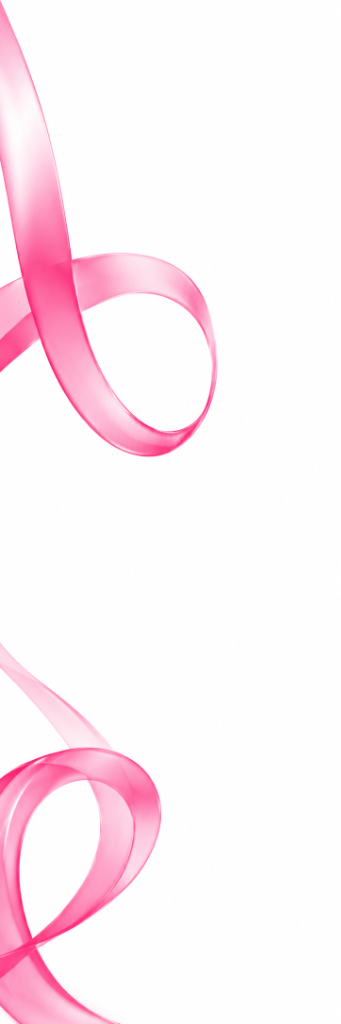
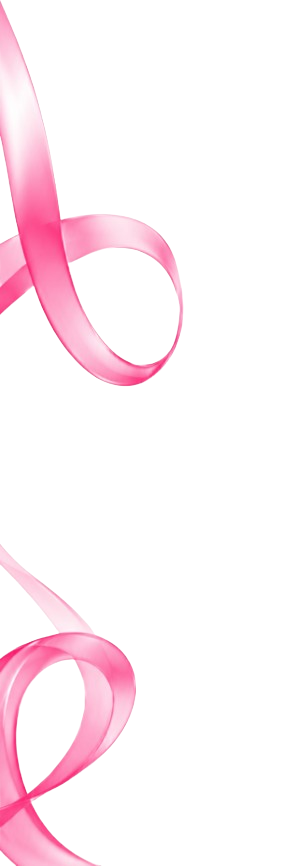
update

diff --git a/src/components/TopNavigation.css b/src/components/TopNavigation.css
@@ -3,15 +3,15 @@
   justify-content: space-between;
   align-items: center;
   padding: 1rem 4rem;
-  background: linear-gradient(135deg, rgba(255, 255, 255, 0.9) 0%, rgba(255, 255, 255, 0.7) 100%);
-  border-bottom: 1px solid rgba(255, 255, 255, 0.8);
-  box-shadow: 0 4px 20px rgba(0, 0, 0, 0.04), inset 0 -1px 0 rgba(255, 255, 255, 0.8);
+  background: rgba(253, 242, 244, 0.65); /* Translucent so content behind is visible */
+  border-bottom: 1px solid rgba(234, 81, 93, 0.18);
+  box-shadow: 0 8px 30px rgba(234, 81, 93, 0.08);
   margin-bottom: 2rem;
   position: sticky;
   top: 0;
-  z-index: 50;
-  backdrop-filter: blur(16px) saturate(180%);
-  -webkit-backdrop-filter: blur(16px) saturate(180%);
+  z-index: 999;
+  backdrop-filter: blur(24px) saturate(180%);
+  -webkit-backdrop-filter: blur(24px) saturate(180%);
 }
 
 .top-nav-left {
@@ -21,11 +21,17 @@
 }
 
 .logo {
-  height: 45px;
+  height: 68px; /* Bigger iHotel logo */
   mix-blend-mode: multiply;
-  padding-left: 1.5rem;
-  padding-right: 1.5rem;
+  padding-left: 0.5rem;
+  padding-right: 0.5rem;
   object-fit: contain;
+  transition: transform 0.25s ease;
+  cursor: pointer;
+}
+
+.logo:hover {
+  transform: scale(1.06);
 }
 
 .search-bar {
@@ -57,53 +63,73 @@
   color: var(--text-muted);
 }
 
+/* Crimson Red Capsule Bar */
 .top-nav-center {
   display: flex;
   align-items: center;
-  gap: 1.5rem;
-  background: var(--card-bg);
-  padding: 0.5rem 1rem;
-  border-radius: var(--border-radius-lg);
-  box-shadow: var(--shadow-sm);
-  border: 1px solid rgba(255, 255, 255, 0.8);
+  gap: 0.25rem;
+  background: linear-gradient(135deg, #ea515d 0%, #d93845 100%);
+  padding: 0.35rem 0.5rem;
+  border-radius: 9999px;
+  box-shadow: 0 6px 20px rgba(234, 81, 93, 0.32), inset 0 1px 1px rgba(255, 255, 255, 0.3);
+  max-width: 100%;
+  overflow-x: auto;
+  scrollbar-width: none;
+  -ms-overflow-style: none;
+}
+
+.top-nav-center::-webkit-scrollbar {
+  display: none;
 }
 
 .nav-item {
   display: flex;
   flex-direction: column;
   align-items: center;
-  gap: 0.25rem;
-  color: var(--text-muted);
+  gap: 0.2rem;
+  color: rgba(255, 255, 255, 0.85);
   cursor: pointer;
-  padding: 0.5rem 1rem;
-  border-radius: var(--border-radius-md);
+  padding: 0.45rem 0.85rem;
+  border-radius: 16px;
   transition: all 0.2s ease;
-  min-width: 70px;
+  min-width: 66px;
+  white-space: nowrap;
+  user-select: none;
 }
 
+/* Hover & Active pill highlight matching uploaded image */
 .nav-item:hover {
-  color: var(--green-main);
-  background-color: var(--green-lighter);
+  color: #FFFFFF;
+  background: rgba(255, 255, 255, 0.25); /* Light pinkish-red pill highlight */
+  backdrop-filter: blur(6px);
+  -webkit-backdrop-filter: blur(6px);
+  box-shadow: inset 0 1px 1px rgba(255, 255, 255, 0.4), 0 2px 6px rgba(0, 0, 0, 0.1);
 }
 
 .nav-item.active {
-  color: var(--green-dark);
+  color: #FFFFFF;
+  background: rgba(255, 255, 255, 0.32); /* Light pinkish-red pill container from photo */
+  backdrop-filter: blur(6px);
+  -webkit-backdrop-filter: blur(6px);
   position: relative;
+  font-weight: 600;
+  box-shadow: inset 0 1px 1px rgba(255, 255, 255, 0.5), 0 2px 8px rgba(0, 0, 0, 0.15);
 }
 
 .nav-item.active::after {
   content: '';
   position: absolute;
-  bottom: -0.5rem;
-  left: 20%;
-  width: 60%;
+  bottom: 2px;
+  left: 50%;
+  transform: translateX(-50%);
+  width: 22px;
   height: 3px;
-  background-color: var(--green-main);
-  border-radius: 3px 3px 0 0;
+  background-color: #FFFFFF;
+  border-radius: 3px;
 }
 
 .nav-item span {
-  font-size: 0.75rem;
+  font-size: 0.725rem;
   font-weight: 500;
 }
 
@@ -117,10 +143,11 @@
   align-items: center;
   gap: 0.75rem;
   cursor: pointer;
-  background: var(--bg-color);
-  padding: 0.5rem;
+  background: rgba(255, 255, 255, 0.85);
+  padding: 0.5rem 0.75rem;
   border-radius: var(--border-radius-lg);
   border: 1px solid var(--border-color);
+  backdrop-filter: blur(8px);
 }
 
 .avatar {
@@ -136,12 +163,49 @@
 }
 
 .user-name {
-  font-size: 0.875rem;
+  font-size: 0.85rem;
   font-weight: 600;
   color: var(--text-main);
 }
 
 .user-role {
-  font-size: 0.75rem;
+  font-size: 0.725rem;
   color: var(--text-muted);
+}
+
+/* Comprehensive Responsive Media Queries */
+@media (max-width: 1280px) {
+  .top-nav {
+    padding: 0.85rem 2rem;
+    gap: 1rem;
+  }
+}
+
+@media (max-width: 1024px) {
+  .top-nav {
+    flex-wrap: wrap;
+    padding: 0.85rem 1.5rem;
+    gap: 1rem;
+  }
+  .top-nav-left {
+    gap: 1rem;
+  }
+  .top-nav-center {
+    order: 3;
+    width: 100%;
+    justify-content: flex-start;
+    padding: 0.35rem;
+  }
+}
+
+@media (max-width: 640px) {
+  .top-nav {
+    padding: 0.75rem 1rem;
+  }
+  .search-bar {
+    width: 160px;
+  }
+  .user-info {
+    display: none;
+  }
 }

diff --git a/src/App.css b/src/App.css
@@ -4,7 +4,7 @@
   min-height: 100vh;
   width: 100%;
   max-width: 100vw;
-  overflow-x: hidden;
+  overflow-x: clip;
   padding-bottom: 2rem;
 }
 
@@ -30,9 +30,39 @@
   gap: 1.5rem;
 }
 
-/* Media Queries for responsiveness (optional but good for a basic structure) */
+.dashboard-three-grid {
+  display: grid;
+  grid-template-columns: 1fr 2fr 1fr;
+  gap: 1.5rem;
+  margin-bottom: 1.5rem;
+}
+
+/* Comprehensive Responsive Media Queries */
+@media (max-width: 1400px) {
+  .dashboard-three-grid {
+    grid-template-columns: 1fr 1fr;
+  }
+}
+
 @media (max-width: 1200px) {
   .dashboard-content {
     grid-template-columns: 1fr;
+    padding: 0 2rem;
+  }
+}
+
+@media (max-width: 900px) {
+  .dashboard-three-grid {
+    grid-template-columns: 1fr;
+  }
+}
+
+@media (max-width: 640px) {
+  .dashboard-content {
+    padding: 0 1rem;
+    gap: 1rem;
+  }
+  .main-column, .sidebar-column {
+    gap: 1rem;
   }
 }

diff --git a/src/index.css b/src/index.css
@@ -1,9 +1,9 @@
 @import url('https://fonts.googleapis.com/css2?family=Inter:wght@400;500;600;700&display=swap');
 
 :root {
-  --primary-color: #E63946; /* The pinkish red for iHotel logo */
-  --bg-color: #e2f7eb; /* Soft full light green background */
-  --card-bg: rgba(255, 255, 255, 0.95);
+  --primary-color: #E63946; /* The crimson red for iHotel logo & nav */
+  --bg-color: #FDF2F4; /* Very slight light pink background */
+  --card-bg: rgba(255, 255, 255, 0.92);
   --text-main: #1a202c;
   --text-muted: #718096;
   --text-light: #a0aec0;
@@ -13,7 +13,7 @@
   --green-light: #C6F6D5;
   --green-lighter: #F0FFF4;
   
-  --border-color: #e2e8f0;
+  --border-color: #f3d5dc;
   --border-radius-lg: 16px;
   --border-radius-md: 12px;
   --border-radius-sm: 8px;
@@ -56,11 +56,11 @@
 
 html {
   font-size: 13px; /* Scales down the entire UI to ~80% native size */
-  background-color: #e2f7eb;
+  background-color: #FDF2F4;
   min-height: 100vh;
   width: 100%;
   max-width: 100vw;
-  overflow-x: hidden;
+  overflow-x: clip;
   -webkit-text-size-adjust: 100%;
   -moz-text-size-adjust: 100%;
   text-size-adjust: 100%;
@@ -69,11 +69,11 @@ html {
 body {
   font-size: 1rem;
   font-family: 'Inter', sans-serif;
-  background-color: #e2f7eb; /* Full light green background */
+  background-color: #FDF2F4; /* Very slight light pink full background */
   min-height: 100vh;
   width: 100%;
   max-width: 100vw;
-  overflow-x: hidden;
+  overflow-x: clip;
   -webkit-text-size-adjust: 100%;
   -moz-text-size-adjust: 100%;
   text-size-adjust: 100%;

diff --git a/src/App.jsx b/src/App.jsx
@@ -37,7 +37,7 @@ function App() {
           <StatCards />
           <RoomOverview />
           
-          <div style={{ display: 'grid', gridTemplateColumns: '1fr 2fr 1fr', gap: '1.5rem', marginBottom: '1.5rem' }}>
+          <div className="dashboard-three-grid">
             <ExpectedArrivalsList />
             <FloorPlan />
             <RoomStatus />